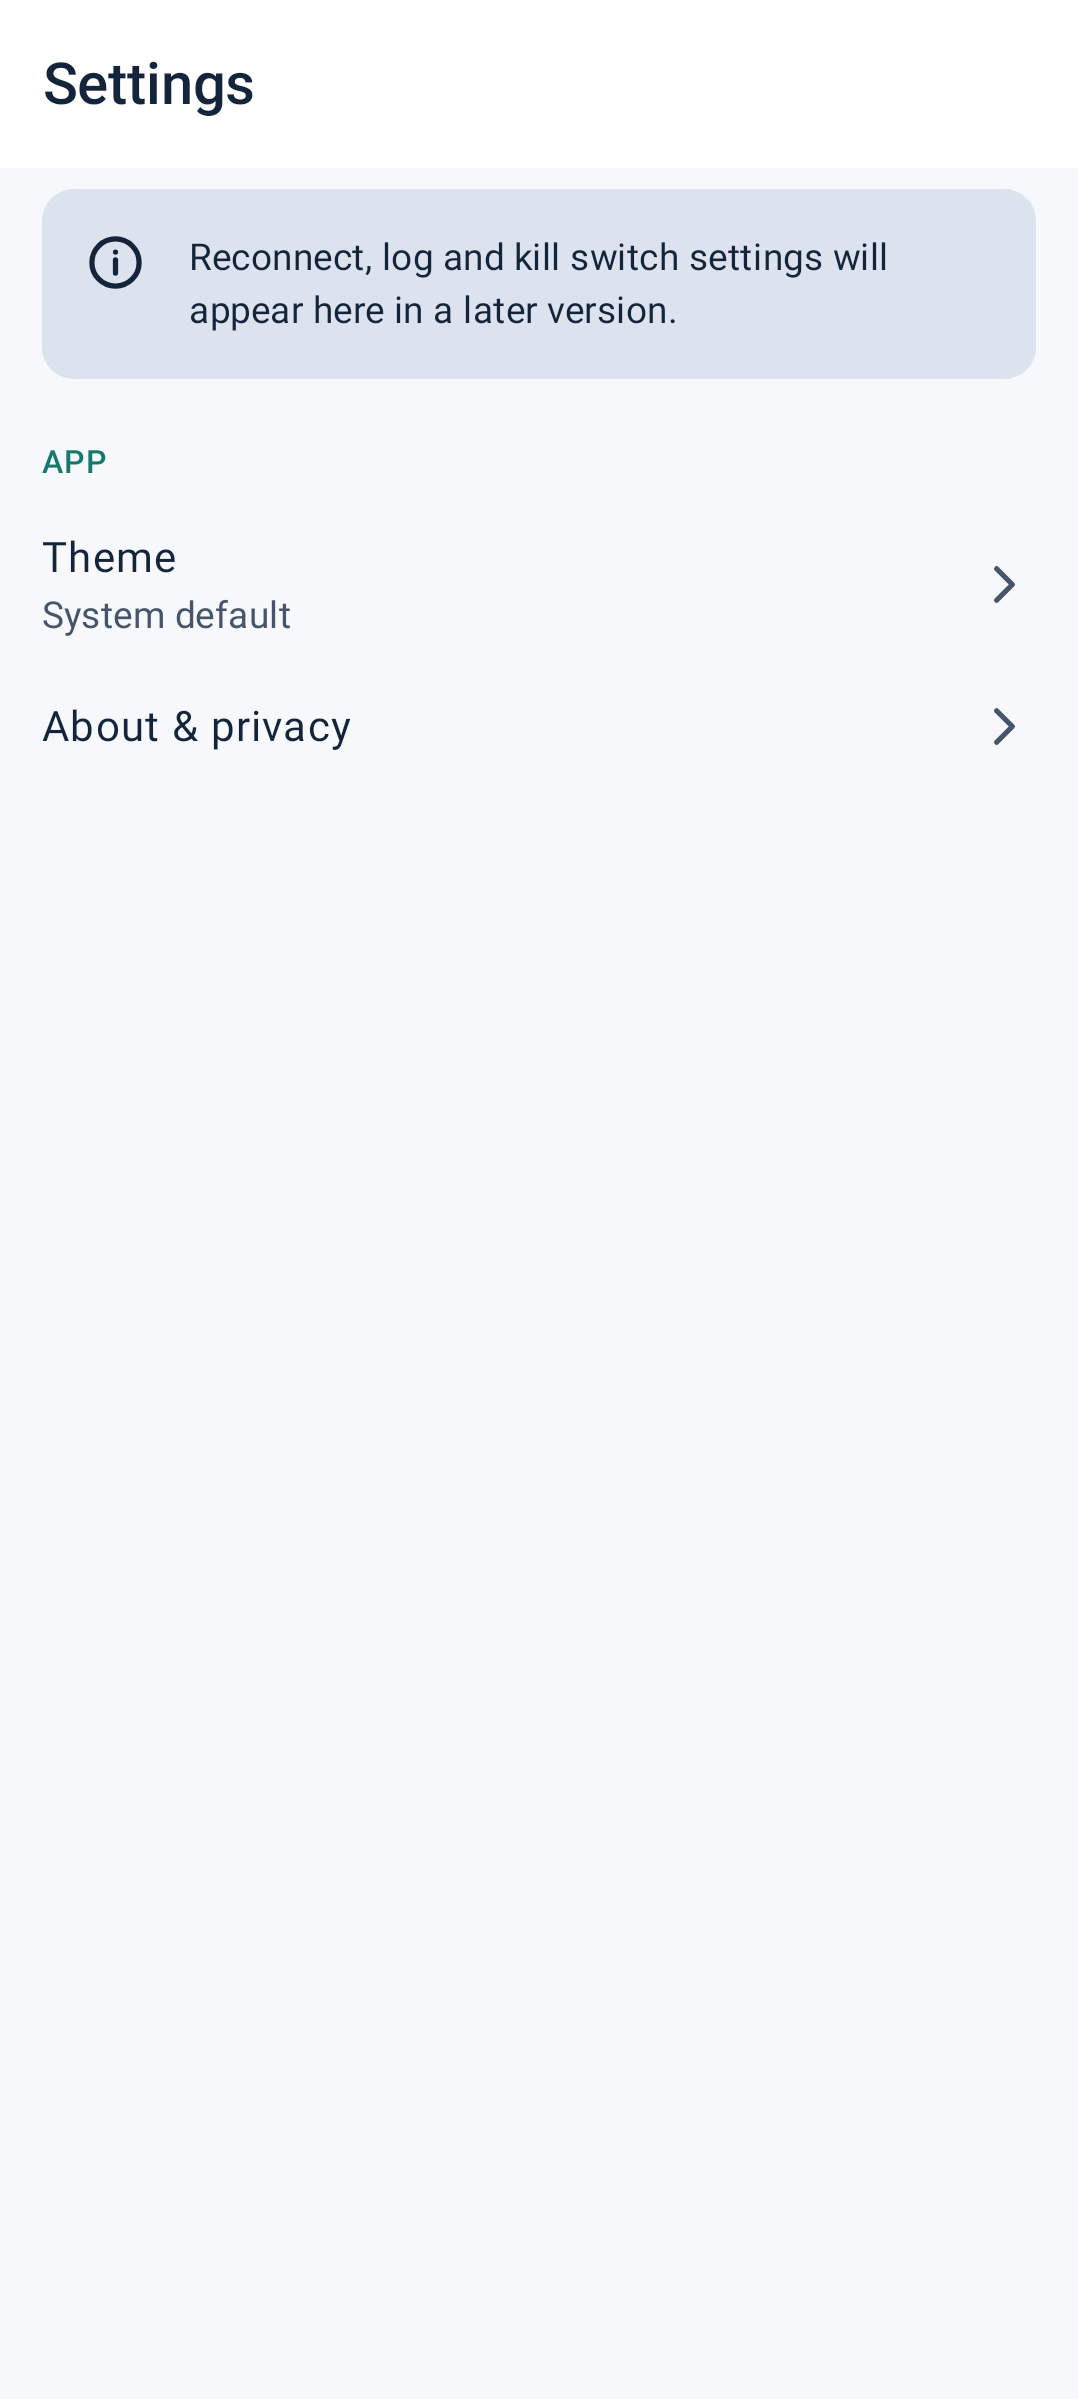
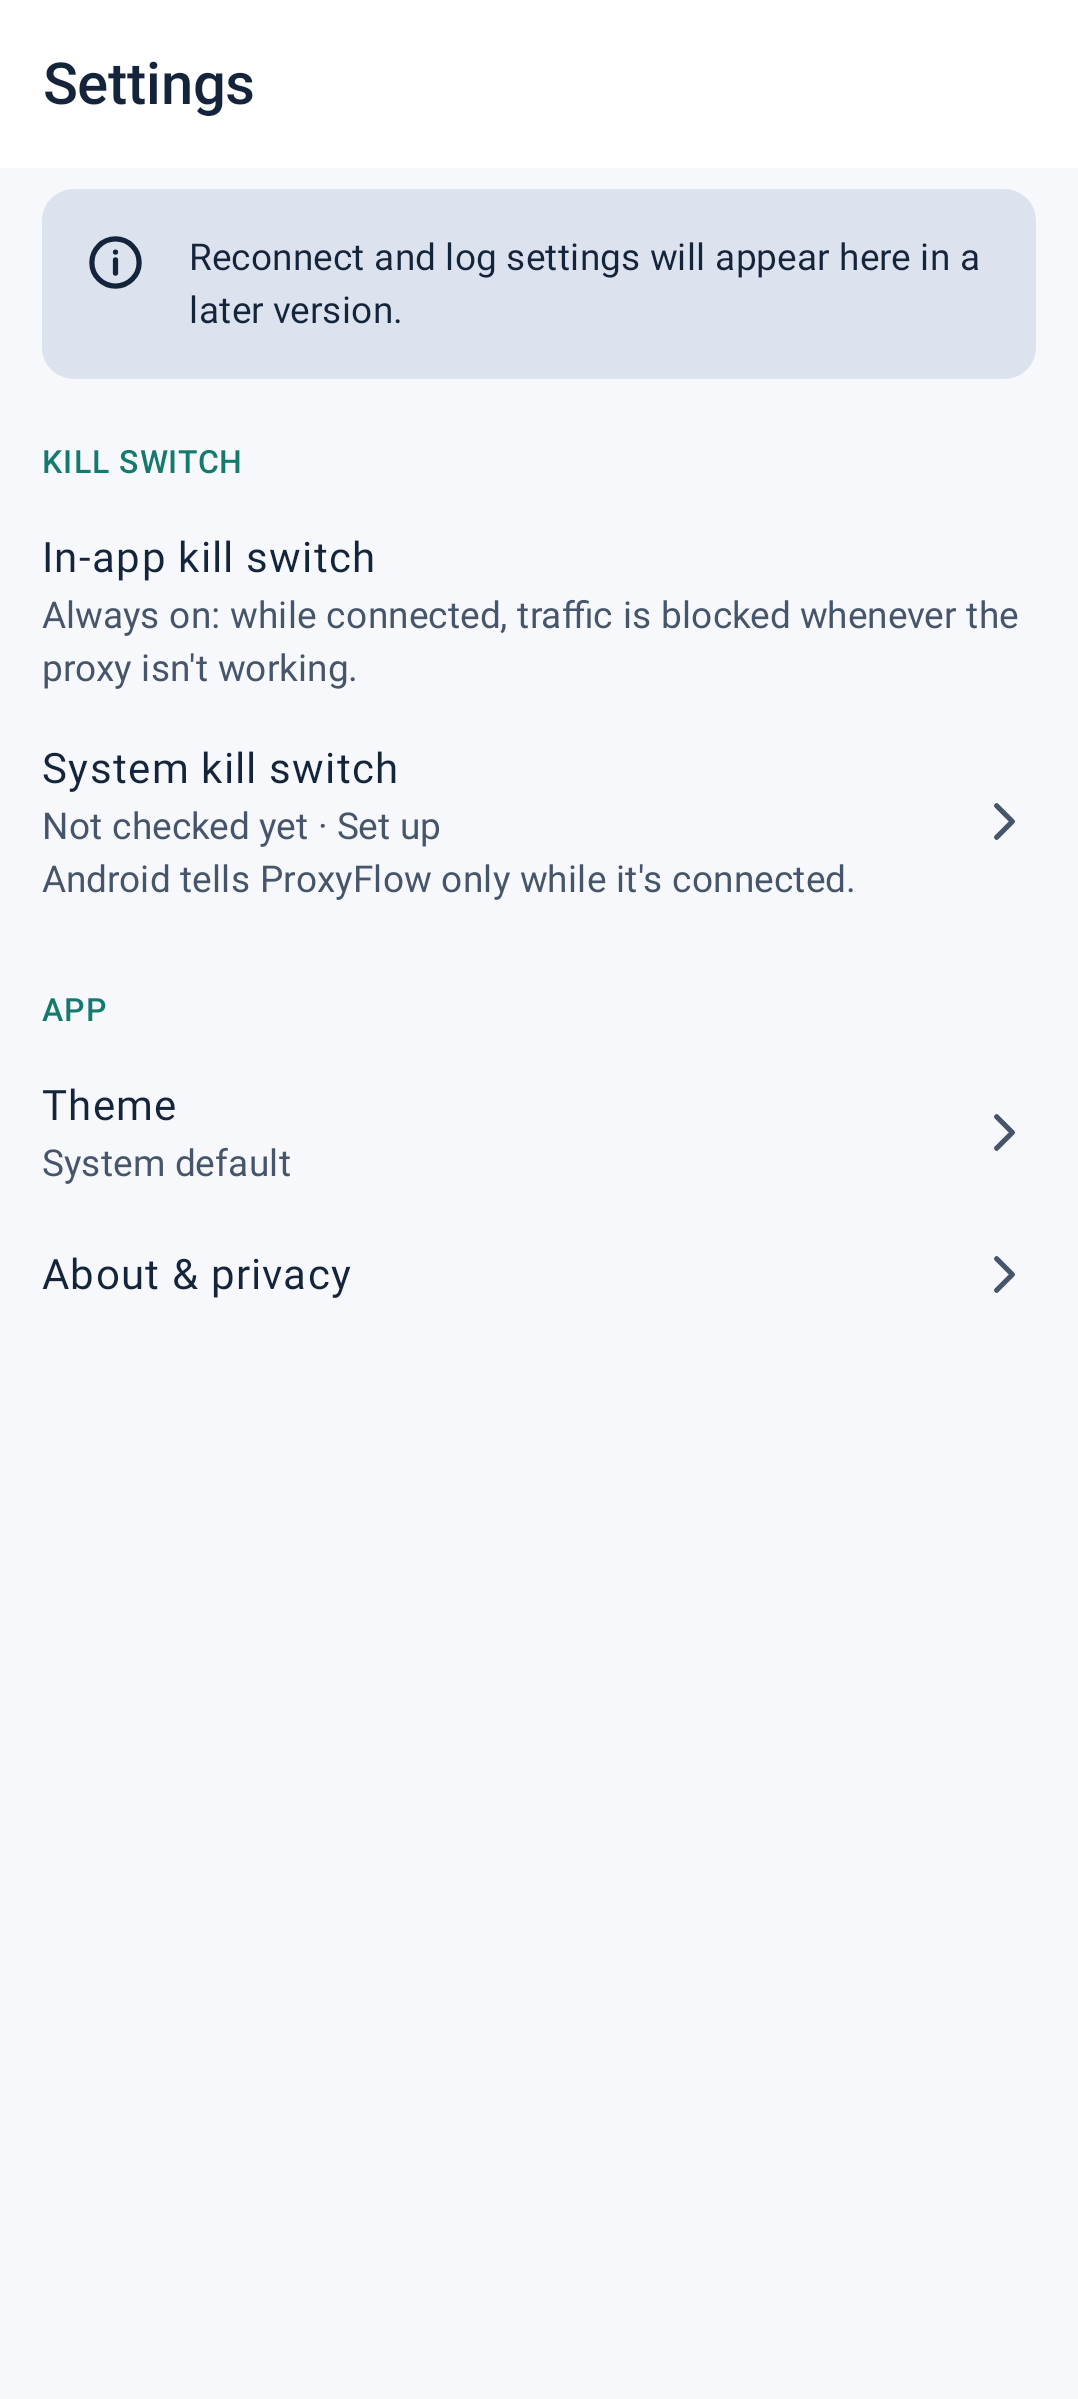
M8: settings rows below the fold in tests, Always-on note, reviewed screenshots
- Tests scroll to Theme and About, now below the kill switch section on a
  small screen.
- Android's Always-on start without a chosen proxy says both cases (blocked
  or normal network) and offers Connect; the interruption notice doesn't
  repeat a set-up link the screen already has; clearer "while connected" copy.
- CopyClaimsTest requires the kill switch guide's limitations and forbids
  "guarantee".
- Screenshots recorded in CI and reviewed: E1, E1b, E1 theme dialog, B6d, H1,
  B2 with the kill switch on.

Claude-Session: https://claude.ai/code/session_01BBXXsUMxCVrJYrWf3v1XwS

diff --git a/feature/home/src/test/kotlin/app/proxyflow/feature/home/HomeScreenTest.kt b/feature/home/src/test/kotlin/app/proxyflow/feature/home/HomeScreenTest.kt
@@ -7,6 +7,7 @@ import androidx.compose.runtime.setValue
 import androidx.compose.ui.semantics.SemanticsProperties
 import androidx.compose.ui.semantics.getOrNull
 import androidx.compose.ui.test.SemanticsNodeInteraction
+import androidx.compose.ui.test.assertCountEquals
 import androidx.compose.ui.test.assertIsDisplayed
 import androidx.compose.ui.test.assertIsEnabled
 import androidx.compose.ui.test.assertIsNotEnabled
@@ -310,7 +311,7 @@ class HomeScreenTest {
         var state by mutableStateOf(ready(ConnectionState.Idle))
         compose.setContent { ProxyFlowTheme { HomeScreen(state, actions) } }
         compose.onNodeWithText("Apps are using your normal network").assertIsDisplayed()
-        scrolledTo("If ProxyFlow stops, only Android's system kill switch keeps apps off your normal network.").assertIsDisplayed()
+        shown("If ProxyFlow stops while connected, only Android's system kill switch keeps apps off your normal network.")
         scrolledTo("Set up system kill switch").performClick()
 
         state = ready(ConnectionState.Idle, killSwitch = KILL_SWITCH_ON)
@@ -323,7 +324,7 @@ class HomeScreenTest {
         state = ready(ConnectionState.Idle, killSwitch = KILL_SWITCH_ON.copy(alwaysOn = false, blocksWithoutVpn = false))
         compose.waitForIdle()
         compose.onNodeWithText("Apps are using your normal network").assertIsDisplayed()
-        scrolledTo("System kill switch is off: if ProxyFlow stops, apps use your normal network.", substring = true).assertIsDisplayed()
+        shown("System kill switch is off: if ProxyFlow stops while connected, apps use your normal network.", substring = true)
 
         state = ready(ConnectionState.Idle, killSwitch = KILL_SWITCH_ON.copy(blocksWithoutVpn = false))
         compose.waitForIdle()
@@ -355,6 +356,7 @@ class HomeScreenTest {
         shown("ProxyFlow was stopped while connected")
         shown("Android closed ProxyFlow to free memory at", substring = true)
         shown("Android removed the VPN with it, so apps used your normal network from then on.", substring = true)
+        compose.onAllNodesWithText("Set up system kill switch").assertCountEquals(1) // B2's own, not a second one
         scrolledTo("OK").performClick()
         assertEquals(listOf("dismiss interruption"), calls)
 
@@ -373,6 +375,7 @@ class HomeScreenTest {
         shown("Your phone restarted at", substring = true)
         shown("After a restart ProxyFlow connects by itself only as your Always-on VPN", substring = true)
         shown("ProxyFlow is connected again.", substring = true)
+        compose.onAllNodesWithText("Set up system kill switch").assertCountEquals(1) // the notice's: B4 has none
     }
 
     @Test
@@ -401,6 +404,11 @@ class HomeScreenTest {
         show(ready(ConnectionState(error = ConnectionError(ConnectionError.ALWAYS_ON_NO_PROFILE))))
         scrolledTo("Choose a proxy for Always-on VPN").assertIsDisplayed()
         scrolledTo("Connect once with the proxy Always-on VPN should use.", substring = true).assertIsDisplayed()
+        // Whether Android blocks apps meanwhile, it tells only a VPN that runs: both cases are said.
+        shown("Apps have no internet if \u201cBlock connections without VPN\u201d is on", substring = true)
+        scrolledTo("Connect").performClick()
+        compose.onNodeWithText("Try again").assertDoesNotExist()
+        assertEquals(listOf("connect"), calls)
     }
 
     /** Board B5's two reasons of M8: unanswered requests are the proxy's failure, whatever the last site. */

diff --git a/feature/home/src/main/kotlin/app/proxyflow/feature/home/HomeScreen.kt b/feature/home/src/main/kotlin/app/proxyflow/feature/home/HomeScreen.kt
@@ -339,11 +339,19 @@ private fun InterruptionNotice(interruption: Interruption, state: HomeUiState.Re
         tone = BannerTone.Warning,
     )
     Row(modifier = Modifier.fillMaxWidth(), horizontalArrangement = Arrangement.End) {
-        if (state.killSwitch?.status != KillSwitchStatus.On) {
+        // B2 and B6d below already offer it.
+        if (state.killSwitch?.status != KillSwitchStatus.On && !state.showsKillSwitchSetUp()) {
             PfTextButton(text = stringResource(R.string.home_kill_switch_set_up), onClick = actions.onOpenKillSwitchGuide)
         }
         PfTextButton(text = stringResource(R.string.home_interrupted_dismiss), onClick = actions.onDismissInterruption)
     }
+}
+
+/** The screen's own content links to the kill switch guide: B2 (always) and B6d (until the kill switch is on). */
+private fun HomeUiState.Ready.showsKillSwitchSetUp(): Boolean {
+    if (status != ConnectionStatus.Disconnected) return false
+    val code = error?.code
+    return code == null || code == ConnectionError.VPN_PERMISSION_DENIED || code == ConnectionError.VPN_REVOKED
 }
 
 @Composable
@@ -369,10 +377,27 @@ private fun ConnectFailedContent(state: HomeUiState.Ready, error: ConnectionErro
     StatusHeader(stringResource(R.string.home_status_disconnected), StatusTone.Off, null)
     PfBanner(title = errorTitle(error, state.profile), text = errorMessage(error, state.profile), tone = BannerTone.Error)
     val blocking = state.killSwitch?.status == KillSwitchStatus.On
-    Note(stringResource(if (blocking) R.string.home_not_connected_note_kill_switch else R.string.home_not_connected_note))
+    val note = when {
+        // Android started ProxyFlow as Always-on VPN: whether it blocks apps now, Android says only to a running VPN.
+        error.code == ConnectionError.ALWAYS_ON_NO_PROFILE -> R.string.home_not_connected_note_always_on
+        blocking -> R.string.home_not_connected_note_kill_switch
+        else -> R.string.home_not_connected_note
+    }
+    Note(stringResource(note))
     ErrorCode(error)
     ProfileCard(state.profile, actions.onChangeProfile)
-    FixActions(error, state.profile, actions)
+    if (error.code == ConnectionError.ALWAYS_ON_NO_PROFILE) {
+        // What fixes it is connecting once with the proxy Always-on VPN should use: that makes it the chosen one.
+        PfPrimaryButton(
+            text = stringResource(R.string.home_connect),
+            onClick = actions.onConnect,
+            enabled = state.canConnect,
+            icon = PfIcons.Power,
+            modifier = Modifier.fillMaxWidth(),
+        )
+    } else {
+        FixActions(error, state.profile, actions)
+    }
     PfTextButton(
         text = stringResource(R.string.home_use_another_proxy),
         onClick = actions.onChangeProfile,

diff --git a/app/src/test/kotlin/app/proxyflow/CopyClaimsTest.kt b/app/src/test/kotlin/app/proxyflow/CopyClaimsTest.kt
@@ -105,6 +105,11 @@ class CopyClaimsTest {
             "edit_plaintext_body" to listOf("HTTPS pages stay encrypted end to end"),
             "edit_tls_hint" to listOf("HTTPS sites stay encrypted end to end"),
             "vpn_notification_connected_text" to listOf("TCP", "UDP and ping blocked"),
+            // M8 (ADR-0013 §1): Android's kill switch is the user's to turn on, and ProxyFlow knows it only while connected.
+            "guide_only_you" to listOf("can't turn this on for you", "only while ProxyFlow is connected"),
+            "guide_not_restarted" to listOf("may not start it again", "stay offline"),
+            "guide_system_traffic" to listOf("outside any VPN"),
+            "settings_kill_switch_never" to listOf("only while it's connected"),
         )
         val missing = required.flatMap { (name, needles) -> needles.filterNot { it in text(name) }.map { "$name lacks \"$it\"" } }
         assertEquals(missing.joinToString("\n"), emptyList<String>(), missing)
@@ -143,6 +148,7 @@ class CopyClaimsTest {
             "No\u2011logs",
             "A system\u2011wide VPN",
             "Covers all\u2003traffic",
+            "Guarantees nothing leaks",
         )
         val missed = claims.filter { claim -> FORBIDDEN.none { (_, pattern) -> pattern.containsMatchIn(normalized(claim)) } }
         assertEquals("not recognised: $missed", emptyList<String>(), missed)
@@ -157,8 +163,9 @@ class CopyClaimsTest {
             .replace(Regex("[\\u2010-\\u2013\\u2212]"), "-")
             .replace('\u2019', '\'')
 
-        /** Claims ProxyFlow must never make (traffic matrix §5 "Must not say"). */
+        /** Claims ProxyFlow must never make (traffic matrix §5 "Must not say"; M8: no guarantee of blocking). */
         val FORBIDDEN: List<Pair<String, Regex>> = listOf(
+            "guarantee" to Regex("(?i)\\bguarantee"),
             "all traffic" to
                 Regex(
                     "(?i)\\ball\\s+(of\\s+)?(your\\s+|the\\s+|this\\s+)?" +

diff --git a/feature/settings/src/test/kotlin/app/proxyflow/feature/settings/SettingsScreenTest.kt b/feature/settings/src/test/kotlin/app/proxyflow/feature/settings/SettingsScreenTest.kt
@@ -39,8 +39,9 @@ class SettingsScreenTest {
                 )
             }
         }
-        compose.onNodeWithText("System default").assertIsDisplayed()
-        compose.onNodeWithText("Theme").performClick()
+        // Below the kill switch section (M8): on a small screen the rows are scrolled to first.
+        shown("System default")
+        compose.onNodeWithText("Theme").performScrollTo().performClick()
         compose.onNodeWithText("Light").assertIsDisplayed()
         compose.onNodeWithText("Dark").performClick()
 
@@ -55,7 +56,7 @@ class SettingsScreenTest {
                 SettingsScreen(SettingsUiState(loading = false, theme = ThemePreference.Dark), onThemeChange = {}, onOpenAbout = {})
             }
         }
-        compose.onNodeWithText("Theme").performClick()
+        compose.onNodeWithText("Theme").performScrollTo().performClick()
         // "Dark" is also the row's value; only the dialog option is selectable.
         compose.onNode(hasText("Dark") and isSelectable()).assertIsSelected()
         compose.onNode(hasText("Light") and isSelectable()).assertIsNotSelected()
@@ -140,7 +141,7 @@ class SettingsScreenTest {
         compose.setContent {
             ProxyFlowTheme { SettingsScreen(SettingsUiState(loading = false), onThemeChange = {}, onOpenAbout = { opened++ }) }
         }
-        compose.onNodeWithText("About & privacy").performClick()
+        compose.onNodeWithText("About & privacy").performScrollTo().performClick()
         assertEquals(1, opened)
     }
 

diff --git a/app/src/test/kotlin/app/proxyflow/StateRestorationTest.kt b/app/src/test/kotlin/app/proxyflow/StateRestorationTest.kt
@@ -8,6 +8,7 @@ import androidx.compose.ui.test.onAllNodesWithText
 import androidx.compose.ui.test.onFirst
 import androidx.compose.ui.test.onNodeWithText
 import androidx.compose.ui.test.performClick
+import androidx.compose.ui.test.performScrollTo
 import androidx.compose.ui.test.performTextInput
 import androidx.test.ext.junit.runners.AndroidJUnit4
 import app.proxyflow.core.testing.DumpOnFailureRule
@@ -68,7 +69,8 @@ class StateRestorationTest {
     fun chosenThemeIsSavedAndShownAfterRecreation() {
         val themeRowSaysDark = hasText("Theme") and hasText("Dark")
         compose.tab("Settings").performClick()
-        compose.onNodeWithText("Theme").performClick()
+        // Below the kill switch section (M8): on a small screen the row is scrolled to first.
+        compose.onNodeWithText("Theme").performScrollTo().performClick()
         compose.onNodeWithText("Dark").performClick()
         // DataStore writes on its own thread; wait until the row shows the stored value.
         compose.waitUntil(timeoutMillis = 5_000) { compose.onAllNodes(themeRowSaysDark).fetchSemanticsNodes().isNotEmpty() }
@@ -77,6 +79,6 @@ class StateRestorationTest {
         compose.waitForApp()
 
         compose.tab("Settings").assertIsSelected()
-        compose.onNode(themeRowSaysDark).assertIsDisplayed()
+        compose.onNode(themeRowSaysDark).performScrollTo().assertIsDisplayed()
     }
 }
